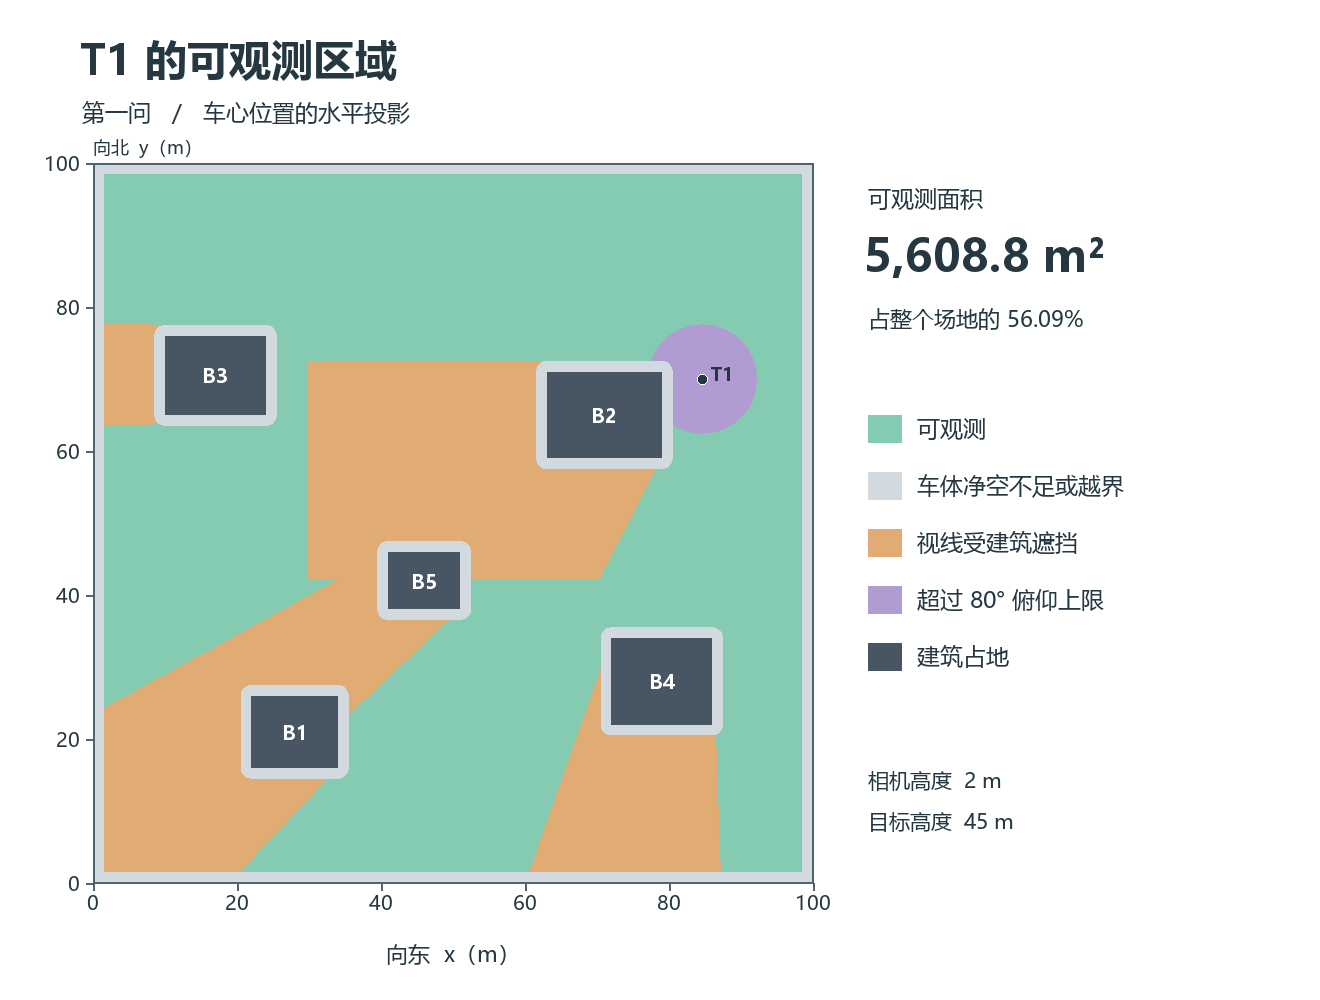
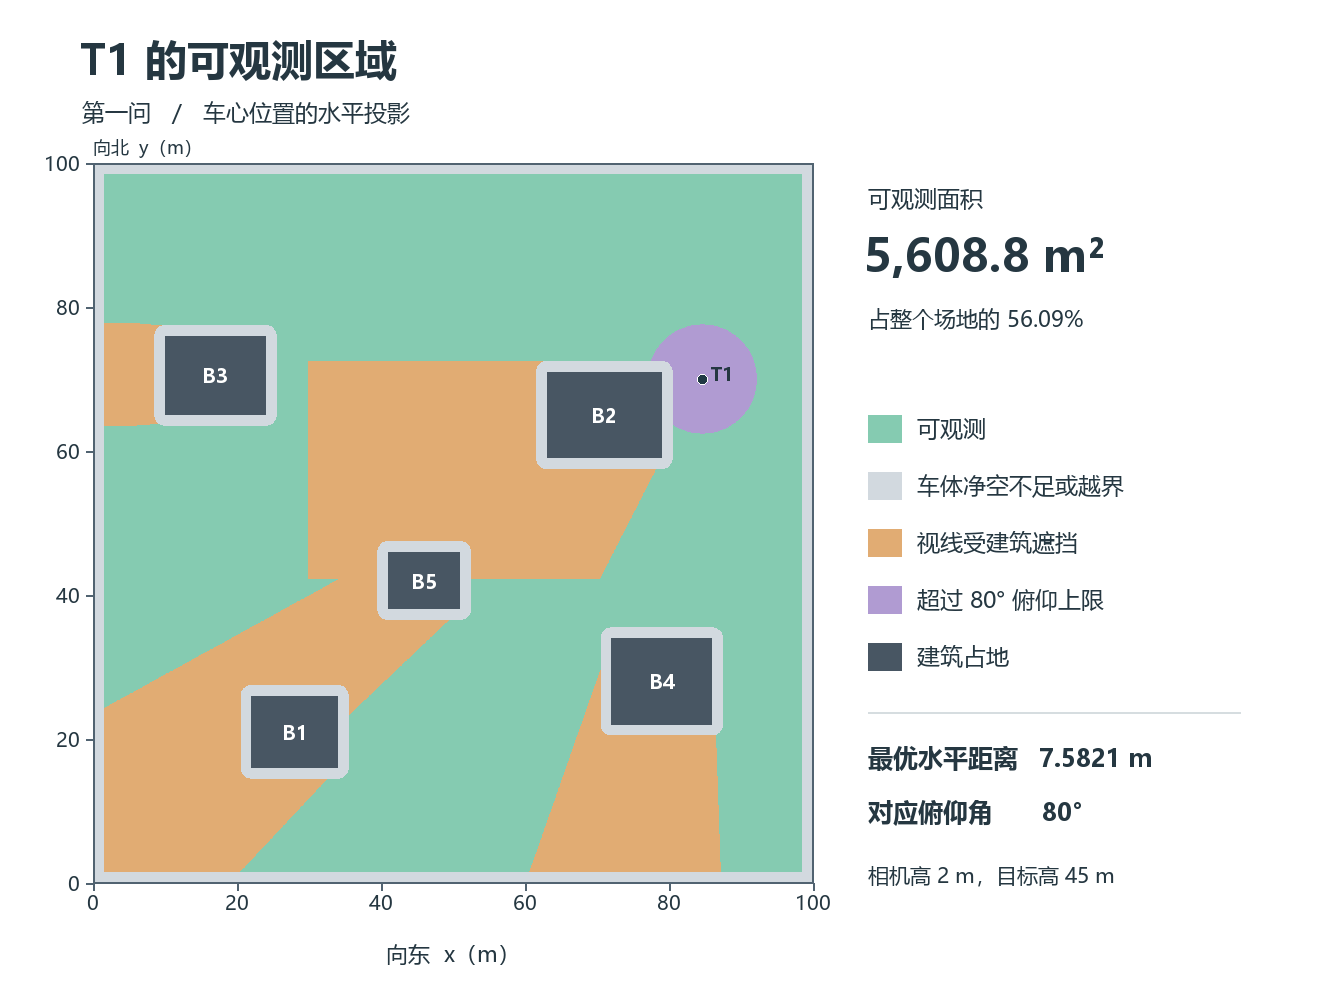
标注第一问几何极值并发布推导预览

Changed region(s): [[0.6523, 0.744, 0.8697, 0.837], [0.6523, 0.868, 0.8386, 0.899]]

diff --git a/q1_figure.py b/q1_figure.py
@@ -11,7 +11,8 @@ from check_bounds import RECTANGLES, RADIUS
 
 TX, TY = 50 + 20 * math.sqrt(3), 70
 HEIGHTS = [20, 28, 12, 24, 32]
-PITCH_RADIUS = 43 / math.tan(math.radians(80))
+PITCH_LIMIT_DEG = 80
+PITCH_RADIUS = 43 / math.tan(math.radians(PITCH_LIMIT_DEG))
 COLORS = ["#85cbb1", "#d2d9df", "#e1ac73", "#b09bd2", "#485663"]
 ROOT = Path(__file__).resolve().parent
 
@@ -133,8 +134,10 @@ def draw(data,area):
         y=412+i*57
         d.rectangle((868,y+3,901,y+30),fill=COLORS[i])
         label(917,y,s,23)
-    label(868,765,"相机高度  2 m",21)
-    label(868,806,"目标高度  45 m",21)
+    d.line((868,712,1240,712),fill="#d6dde0",width=2)
+    label(868,740,f"最优水平距离   {PITCH_RADIUS:.4f} m",25,True)
+    label(868,794,f"对应俯仰角       {PITCH_LIMIT_DEG}°",25,True)
+    label(868,860,"相机高 2 m，目标高 45 m",21)
     canvas.save(ROOT/"T1可观测区域.png")
 
 

diff --git a/q1_figure_3d.py b/q1_figure_3d.py
@@ -5,7 +5,7 @@ import math
 import numpy as np
 from PIL import Image, ImageDraw, ImageFont
 
-from q1_figure import COLORS, HEIGHTS, RECTANGLES, ROOT, TX, TY, raster
+from q1_figure import COLORS, HEIGHTS, PITCH_LIMIT_DEG, PITCH_RADIUS, RECTANGLES, ROOT, TX, TY, raster
 
 
 WIDTH, HEIGHT = 1540, 1040
@@ -51,6 +51,8 @@ def draw():
 
     text(66,34,"T1 的三维可观测区域",44,bold=True)
     text(69,108,"地面颜色表示车心位于该处时的观测条件，楼体按题设高度绘制。",23)
+    text(965,42,f"最优水平距离   {PITCH_RADIUS:.4f} m",28,bold=True)
+    text(965,92,f"对应俯仰角       {PITCH_LIMIT_DEG}°",26,bold=True)
     corners=[point(0,0),point(100,0),point(100,100),point(0,100)]
     d.line(corners+[corners[0]],fill="#71828a",width=2*ZOOM)
     for i in range(0,101,20):

diff --git a/第一问推导与结果.md b/第一问推导与结果.md
@@ -1,0 +1,25 @@
+# 第一问｜T1 的最优水平距离与俯仰角
+
+以相机到目标的水平距离 r 衡量观测质量。相机离地 2 m，目标高度为 45 m，高差 Δh = 43 m。
+
+## 1　把质量最大化转为距离最小化
+
+在满足车体净空、视线无遮挡和俯仰范围的站位中，题设质量指标 Q = 1/r 随 r 严格递减。因此，求最大质量等价于求最小可行水平距离。
+
+## 2　由俯仰上限得到距离下界
+
+水平距离、高差与俯仰角 β 构成直角三角形。目标高于相机，俯仰下限 −10° 自动满足，上限 80° 给出
+
+$$\tan\beta=\frac{43}{r},\qquad r\geq\frac{43}{\tan 80^\circ}\approx 7.58206017\ \mathrm{m}.$$
+
+## 3　检查距离下界能否取到
+
+以 T1 的地面投影为圆心、以上述下界为半径画圆。圆盘整体落在车心允许的场地边界内。按题面矩形核对，五栋建筑向外扩张车体半径 1.5 m 后，只有 B2 的扩张区与该圆盘相交；圆心仍在 B2 扩张区外。
+
+B2 的扩张区是闭凸集，因此存在一条经过圆心的直线，使该扩张区严格位于直线一侧。圆周另一侧有一段弧，其上各点到圆心的整条线段均与所有建筑投影保持正间距。相应车体满足净空要求，三维视线也不会擦碰建筑。题面允许 β 恰取 80°，故下界可以达到，且存在多个同优位置。
+
+## 结果
+
+$$r_{\min}\approx7.5821\ \mathrm{m},\qquad \beta=80^\circ,\qquad Q_{\max}=\frac{\tan80^\circ}{43}\approx0.13189\ \mathrm{m}^{-1}.$$
+
+二维、三维图中的绿色均表示满足三项约束的车心位置。可观测面积约为 5,608.77 m²，占整个 100 m × 100 m 场地的 56.09%。面积取自数值积分；最优距离取自上述几何推导。

diff --git a/workbook.md b/workbook.md
@@ -15,3 +15,7 @@
 ## sw26-q1-3d
 - 绘制第一问 T1 三维轴测图，复用既有地面分类及高度数据，挂接当前节点。
 - 已交付 1540×1040 PNG；建筑和目标高度、刻度、图例已目视检查，C、D 节点的图像内容已核对。
+
+## sw26-q1-results
+- 更新二维与三维图的距离、仰角标注，发布第一问推导并核对本地节点显示。
+- 已重绘两图并检查排版；B/C/D 节点公式预览、C/D 两图均已核对。下界、可达条件和最大质量见第一问推导与结果。
